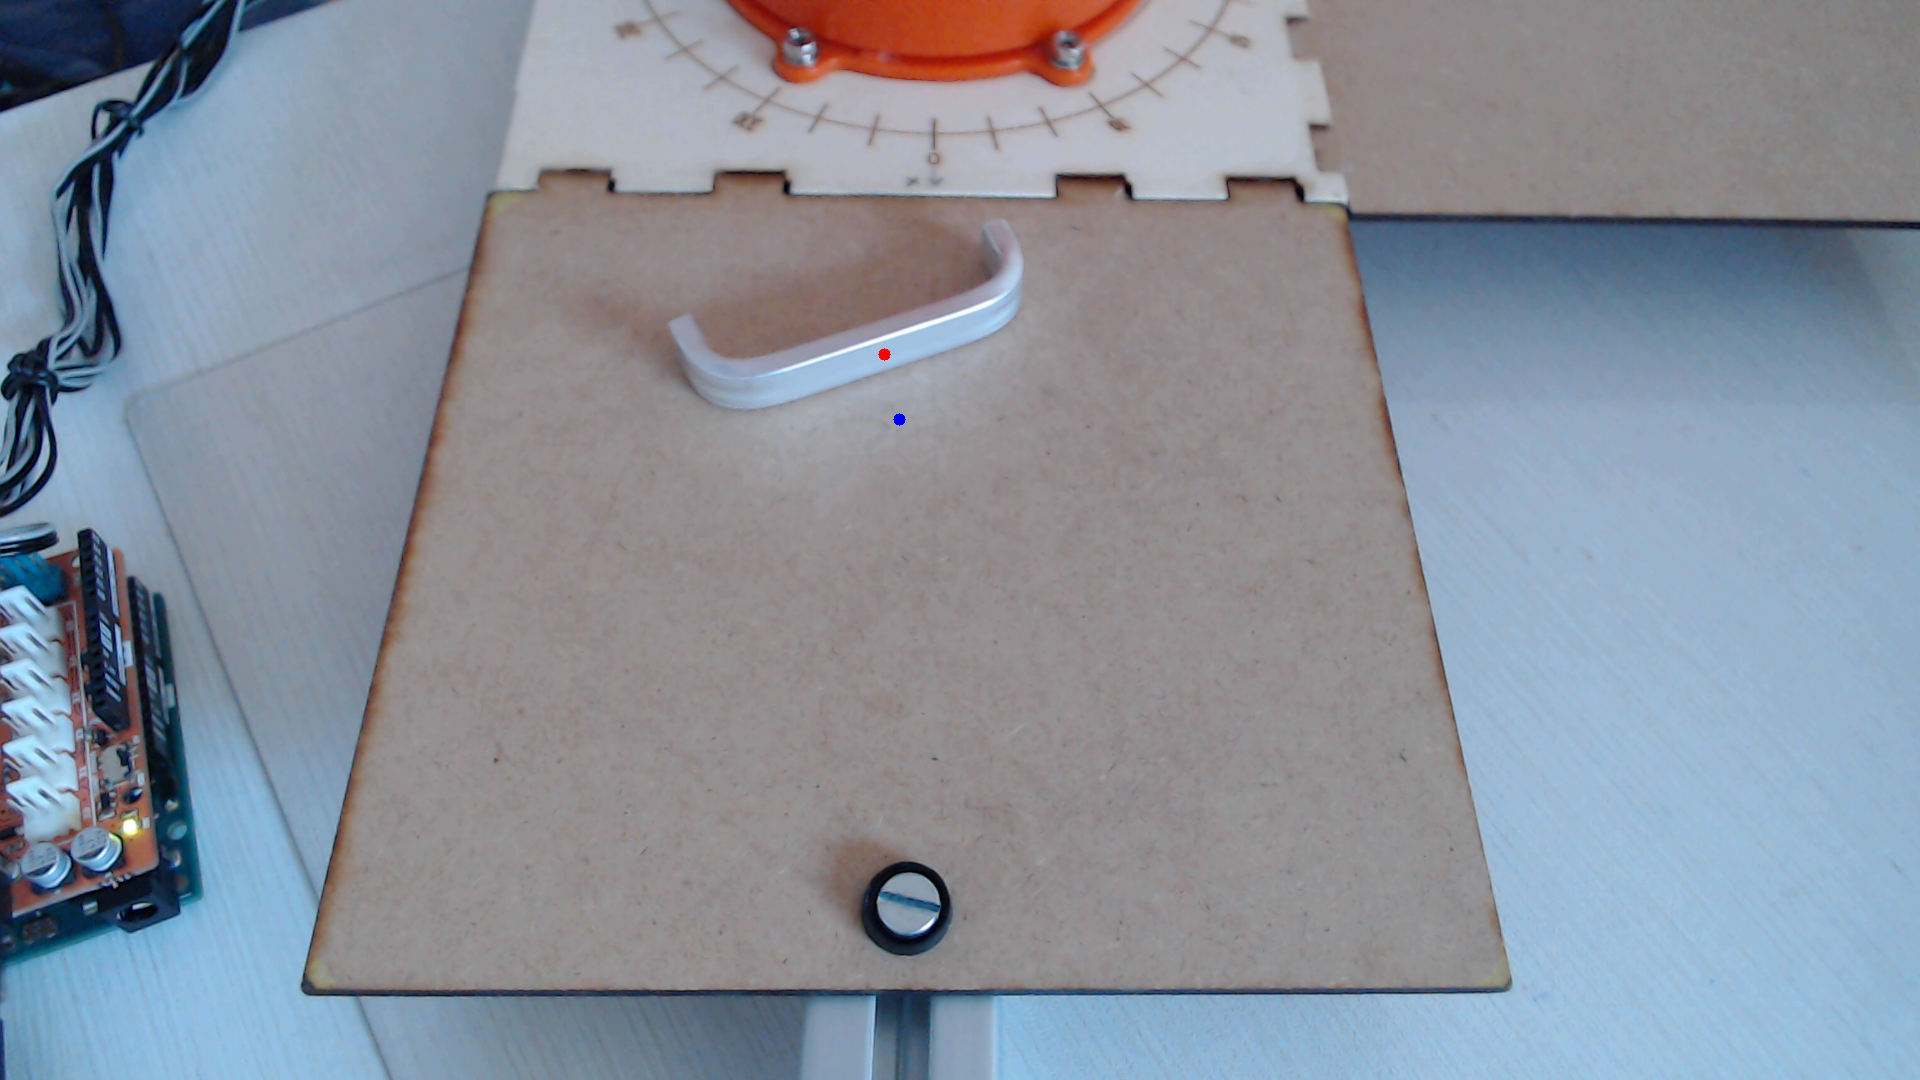
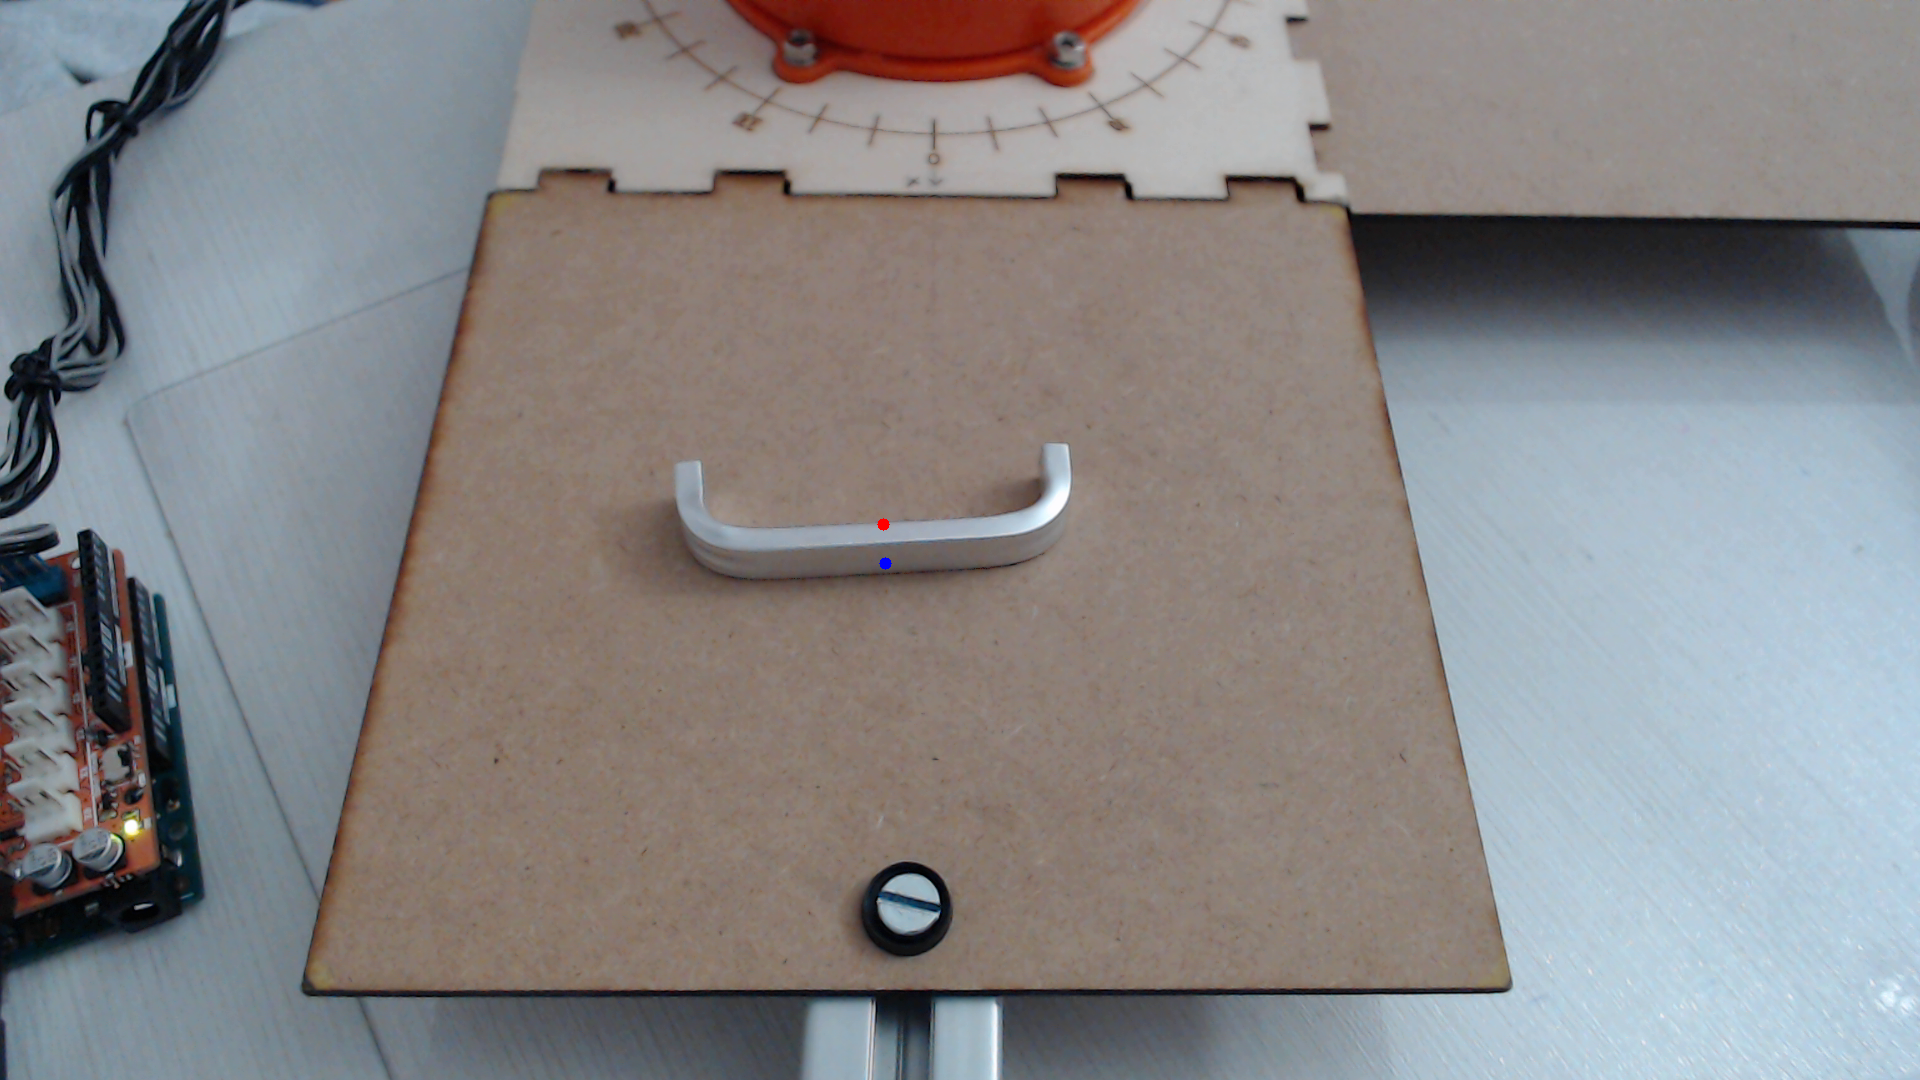
q[i] ya tiene lo que queremos!!

diff --git a/interfaz_robot/interfaz_robot.cpp b/interfaz_robot/interfaz_robot.cpp
@@ -46,7 +46,7 @@ interfaz_robot::interfaz_robot(QWidget *parent)
     cv::utils::logging::setLogLevel(cv::utils::logging::LOG_LEVEL_SILENT);
     ui.setupUi(this);
 
-    // Inicializar los valores
+	// Inicializar los valores de los ejes a 0 (robot en posición vertical)
     for (int i = 0; i < 6; i++) {
         q[i] = 0;
     }
@@ -85,7 +85,6 @@ interfaz_robot::interfaz_robot(QWidget *parent)
     connect(timerVideo, &QTimer::timeout, this, &interfaz_robot::MostrarVideo);
 
     ui.lblInicio->setText("Vídeo no iniciado");
-    //ui.lblPosicionActual->setText("Posición actual: desconocida");
 	HabilitarBotones(false);
  
 }
@@ -254,7 +253,6 @@ void interfaz_robot::onCoger()
     m_cogerPieza = true;
 }
 
-
 void interfaz_robot::GuardarImagen()
 {
     cv::Mat img = camara->getImage();  // Obtener la imagen actual de la cámara
@@ -336,10 +334,11 @@ void interfaz_robot::MoverEje(int indexEje, int grados)
     // Enviar comando al robot
     if (m_robot) {
         qDebug() << "Moviendo eje" << indexEje << "a" << grados << "grados.";
-        q[indexEje] = grados;
+		q[indexEje] = grados; //Actualizar ángulo actual
         m_robot->mover(indexEje, grados);
         /*QMessageBox::information(this, "Movimiento",
             QString("Eje %1 movido a %2 grados").arg(indexEje).arg(grados));*/
+
         // Actualizar información de los motores en la interfaz
         ActualizarInterfaz();
     }
@@ -393,6 +392,7 @@ void interfaz_robot::MoverTodosLosEjes(int *angulos)
    /* QMessageBox::information(this, "Movimiento",
         "Todos los ejes se están moviendo simultáneamente a las nuevas posiciones.");*/
 
+	// Actualizar los ángulos actuales
     for (int i = 0; i < 6; i++)
         q[i] = angulos[i];
 
@@ -408,17 +408,12 @@ void interfaz_robot::MoverPosInterm()
     }
 
     // Valores deseados para cada eje: 45, 0, 70, 70, 0, 0
-    q[0] = 45;
-    q[1] = 0;
-    q[2] = 70;
-    q[3] = 70;
-    q[4] = 0;
-    q[5] = 0;
+    double ang_deseado[6] = { 45, 0, 70, 70, 0, 0 };
 
     // Construir comando tipo: #a45,0,70,70,0,0*
     QString comando = "#a";
     for (int i = 0; i < 6; ++i) {
-        comando += QString::number(q[i]);
+        comando += QString::number(ang_deseado[i]);
         if (i < 5) comando += ",";
     }
     comando += "*";
@@ -427,10 +422,13 @@ void interfaz_robot::MoverPosInterm()
     m_robot->enviarComando(comando);
     qDebug() << "Moviendo robot a posición intermedia: " << comando;
 
+    // Actualizar los ángulos actuales
+    for (int i = 0; i < 6; i++)
+        q[i] = ang_deseado[i];
+
     // Actualizar información de los motores en la interfaz
     ActualizarInterfaz();
 }
-
 
 void interfaz_robot::VerificarRango(int valor)
 {
@@ -540,6 +538,16 @@ void interfaz_robot::GuardarImagenYPose()
         return;
     }
 
+    // Leer valores actuales de los spinbox
+    int q_spin[6] = {
+        ui.spinEje0->value(),
+        ui.spinEje1->value(),
+        ui.spinEje2->value(),
+        ui.spinEje3->value(),
+        ui.spinEje4->value(),
+        ui.spinEje5->value()
+    };
+
     // Usamos el mismo contador para imagen y pose
     int numArchivo = contador;
 
@@ -556,10 +564,17 @@ void interfaz_robot::GuardarImagenYPose()
     std::ofstream archivoPose(nombrePose.str());
     if (archivoPose.is_open()) {
         for (int i = 0; i < 6; ++i)
-            archivoPose << q[i] << (i < 5 ? " " : "");
+            archivoPose << q_spin[i] << (i < 5 ? " " : "");
         archivoPose << std::endl;
         archivoPose.close();
         qDebug() << "Pose guardada:" << QString::fromStdString(nombrePose.str());
+
+        // Actualizar los ángulos actuales
+        for (int i = 0; i < 6; i++)
+            q[i] = q_spin[i];
+
+        // Actualizar información de los motores en la interfaz
+        ActualizarInterfaz();
     }
     else {
         qDebug() << "Error: no se pudo abrir el archivo de pose.";
@@ -611,83 +626,12 @@ void interfaz_robot::CalibrarCamaraRobot()
 //}
 
 
-//void interfaz_robot::ProcesarImagen()
-//{
-    //namespace fs = std::filesystem;
-    //fs::path rutaEjecutable = fs::current_path();
-    //std::vector<fs::path> imagenes;
-
-    //// Buscar imágenes "pieza_*.png"
-    //for (const auto& entry : fs::directory_iterator(rutaEjecutable)) {
-    //    std::string nombre = entry.path().filename().string();
-    //    if (nombre.rfind("pieza_", 0) == 0 &&
-    //        nombre.find("segmentada") == std::string::npos &&
-    //        entry.path().extension() == ".png") {
-    //        imagenes.push_back(entry.path());
-    //    }
-    //}
-
-    //if (imagenes.empty()) {
-    //    std::cout << "No se encontraron imágenes que empiecen por 'pieza_'.\n";
-    //    return;
-    //}
-
-    //std::sort(imagenes.begin(), imagenes.end());
-
-    //for (const auto& rutaImagen : imagenes) {
-    //    std::cout << "\nProcesando: " << rutaImagen << std::endl;
-    //    cv::Mat img = cv::imread(rutaImagen.string());
-   
-	
-    
-        //if (img.empty()) {
-        //    std::cerr << "No se pudo cargar " << rutaImagen << "\n";
-        //    continue;
-        //}
-
-        //// Recortar y reescalar
-        //cv::Mat procesada = recortarYReescalar(img);
-        //if (procesada.empty()) {
-        //    std::cerr << "Error: resultado vacío tras recortarYReescalar.\n";
-        //    continue;
-        //}
-
-        //// Localizar pieza y guardar imagen 
-        //cv::Point2f centro(0, 0);
-        //cv::Point2f lejano(0,0);
-        //LocalizarPieza(procesada, centro, lejano);
-        //std::cout << "Centroide: " << centro << ", Punto lejano: " << lejano << std::endl;
-
-        //Mat K = leerMatriz("K.txt");
-        //Mat RTpc = leerMatriz("RT_panel_camara.txt");
-        //Mat RTcr = leerMatriz("RT_camara_base.txt");
-        //cv::Mat distCoeffs = interfaz_robot::leerMatriz("Kc.txt");
-        //// Quitar distorsión
-        //std::vector<cv::Point2d> srcPoints1{ centro }, undistortedPoints_centro;
-        //cv::undistortPoints(srcPoints1, undistortedPoints_centro, K, distCoeffs, cv::noArray(), K);
-        //cv::Point2d centro_sin_distorsion = undistortedPoints_centro[0];
-
-        //std::vector<cv::Point2d> srcPoints2{ lejano }, undistortedPoints_lejano;
-        //cv::undistortPoints(srcPoints2, undistortedPoints_lejano, K, distCoeffs, cv::noArray(), K);
-        //cv::Point2d lejano_sin_distorsion = undistortedPoints_lejano[0];
-
-  //      cv::Point3d centro_baseRobot = pixelToWorld3D(centro_sin_distorsion, K, RTpc, RTcr); //Mat& RTpanelCam, Mat& RTcamRobot
-  //      cv::Point3d lejano_baseRobot = pixelToWorld3D(lejano_sin_distorsion, K, RTpc, RTcr);
-
-		//float angulo = atan2(lejano_baseRobot.y - centro_baseRobot.y,
-		//	lejano_baseRobot.x - centro_baseRobot.x) * RAD2DEG;
-
-		//CinematicaInversa(centro_baseRobot.x, centro_baseRobot.y, centro_baseRobot.z, angulo);
-  //      TrasladarPieza();
-    
-//}
-
 PuntosProcesados interfaz_robot::ComenzarProcesado(Mat img)
 {
     // Recortar y reescalar
     Mat procesada = recortarYReescalar(img);
 
-    // Localizar pieza y guardar imagen 
+    // Localizar pieza: centro y lejano
     cv::Point2f centro(0, 0);
     cv::Point2f lejano(0, 0);
     LocalizarPieza(procesada, centro, lejano);
@@ -707,7 +651,7 @@ PuntosProcesados interfaz_robot::ComenzarProcesado(Mat img)
     cv::undistortPoints(srcPoints2, undistortedPoints_lejano, K, distCoeffs, cv::noArray(), K);
     cv::Point2d lejano_sin_distorsion = undistortedPoints_lejano[0];
 
-    std::cout << "Centro sin dist" << centro_sin_distorsion << ", Lejano sin disr: " << lejano_sin_distorsion << std::endl;
+    std::cout << "Centro sin dist" << centro_sin_distorsion << ". Lejano sin disr: " << lejano_sin_distorsion << std::endl;
 
     return { centro_sin_distorsion, lejano_sin_distorsion };
 }
@@ -764,27 +708,6 @@ cv::Point3d interfaz_robot::pixelToWorld3D(const cv::Point2d& uv, // Esto uv ya 
     return cv::Point3d(Xr, Yr, Zr);
 }
 
-
-void interfaz_robot::MoverRobotActual()
-{
-    if (!m_robot) return;
-
-    // Construir comando con los q actuales
-    QString comando = "#a";
-    for (int i = 0; i < 6; ++i) {
-        comando += QString::number(q[i]);
-        if (i < 5) comando += ",";
-    }
-    comando += "*";
-
-    // Enviar al robot
-    m_robot->enviarComando(comando);
-
-    qDebug() << "Robot moviéndose a: " << comando;
-    // Actualizar información de los motores en la interfaz
-    ActualizarInterfaz();
-}
-
 void interfaz_robot::AbrirCerrarPinza(int accion)    // 0 = abrir, 1 = cerrar
 {
     if (!m_robot) {
@@ -813,7 +736,6 @@ void interfaz_robot::AbrirCerrarPinza(int accion)    // 0 = abrir, 1 = cerrar
     // Actualizar información de los motores en la interfaz
     ActualizarInterfaz();
 }
-
 
 void interfaz_robot::CinematicaInversa(double cx, double cy, double cz, double angulo)
 {
@@ -844,36 +766,35 @@ void interfaz_robot::CinematicaInversa(double cx, double cy, double cz, double a
     // Cálculo de q4 según q2 + q3 + q4 = 180º 
     double q4_rad = M_PI - (q2_rad + q3_rad);
 
-    // Guardar resultados en q[6] (grados)
-	q[0] = atan2(cy,cx) * RAD2DEG; // q1 en grados
-    q[1] = q2_rad * RAD2DEG;
-    q[2] = q3_rad * RAD2DEG;
-    q[3] = q4_rad * RAD2DEG;
-	q[4] = angulo; 
-	q[5] = 0; // Pinza abierta
+    // Guardar resultados en q_deseado[6] (grados)
+    double q_deseado[6];
+	q_deseado[0] = atan2(cy,cx) * RAD2DEG; // q1 en grados
+    q_deseado[1] = q2_rad * RAD2DEG;
+    q_deseado[2] = q3_rad * RAD2DEG;
+    q_deseado[3] = q4_rad * RAD2DEG;
+    q_deseado[4] = angulo;
+    q_deseado[5] = 0; // Pinza abierta
 
     // Mostrar valores
-    qDebug() << "Cinematica inversa:";
-    qDebug() << "q1 =" << q[0] << "°";
-    qDebug() << "q2 =" << q[1] << "°";
-    qDebug() << "q3 =" << q[2] << "°";
-    qDebug() << "q4 =" << q[3] << "°";
-    qDebug() << "q5 =" << q[4] << "°";
-    qDebug() << "q6 =" << q[5] << "°";
+    qDebug() << "Ángulos según la cinematica inversa:";
+    qDebug() << "q_deseado[0] =" << q_deseado[0] << "°";
+    qDebug() << "q_deseado[1] =" << q_deseado[1] << "°";
+    qDebug() << "q_deseado[2] =" << q_deseado[2] << "°";
+    qDebug() << "q_deseado[3] =" << q_deseado[3] << "°";
+    qDebug() << "q_deseado[4] =" << q_deseado[4] << "°";
+    qDebug() << "q_deseado[5] =" << q_deseado[5] << "°";
 
-    //MoverRobotActual();
+    //MoverTodosLosEjes(q_deseado);
     //AbrirCerrarPinza(1); // Cerrar pinza
 
+    // Actualizar los ángulos actuales
+    for (int i = 0; i < 6; i++)
+        q[i] = q_deseado[i];
+
+    // Actualizar información de los motores en la interfaz
+    ActualizarInterfaz();
+
 }
-
-
-void interfaz_robot::Esperar(int ms)
-{
-    QEventLoop loop;
-    QTimer::singleShot(ms, &loop, SLOT(quit()));
-    loop.exec();
-}
-
 
 void interfaz_robot::TrasladarPieza()
 {
@@ -887,23 +808,23 @@ void interfaz_robot::TrasladarPieza()
     // 1: Subir brazo: q2 - 20°
     qDebug() << "1. Subiendo brazo: q2 =" << q[2];
     MoverEje(2, q_original[2] - 20.0);
-	Esperar(1500); // Esperar 1.5 segundos por si acaso
+	waitKey(1500); // Esperar 1.5 segundos por si acaso
 
     // 2: Mover a posición de seguridad
     int angulos[6] = { 90,5 ,70 ,90 ,0, round(q_original[5]) };
     qDebug() << "2. Girando base a 90 grados: q0 =" << q[0];
 	MoverTodosLosEjes(angulos);
-    Esperar(1500); // Esperar 1.5 segundos por si acaso
+    waitKey(1500); // Esperar 1.5 segundos por si acaso
 
     // 3: Bajar brazo nuevamente: q2 + 20°
     MoverEje(2, 80);
     qDebug() << "3. Bajando brazo a valor original: q2 =" << q[2];
-    Esperar(1500); // Esperar 1.5 segundos por si acaso
+    waitKey(1500); // Esperar 1.5 segundos por si acaso
 
     // 4: Abrir pinza 
     qDebug() << "4. Abriendo pinza";
     AbrirCerrarPinza(0);   // 0 = abrir pinza 
-    Esperar(1500); // Esperar 1.5 segundos por si acaso
+    waitKey(1500); // Esperar 1.5 segundos por si acaso
 
     // 5: Volver a posición de seguridad
     qDebug() << "5. Volviendo a posicion de seguridad";
@@ -928,3 +849,5 @@ void interfaz_robot::MoverACota()
     CinematicaInversa(punto3D[0], punto3D[1], punto3D[2], angulo);
     //TrasladarPieza();
 }
+
+

diff --git a/interfaz_robot/interfaz_robot.h b/interfaz_robot/interfaz_robot.h
@@ -46,9 +46,7 @@ private slots:
 	void GuardarImagenYPose();
 	void CalibrarCamaraRobot();
     void CinematicaInversa(double cx, double cy, double cz, double angulo);
-    void MoverRobotActual();
     void AbrirCerrarPinza(int accion);
-    void Esperar(int ms);
     void TrasladarPieza();
     void MoverACota();
     void MoverEje(int indexEje, int grados);
